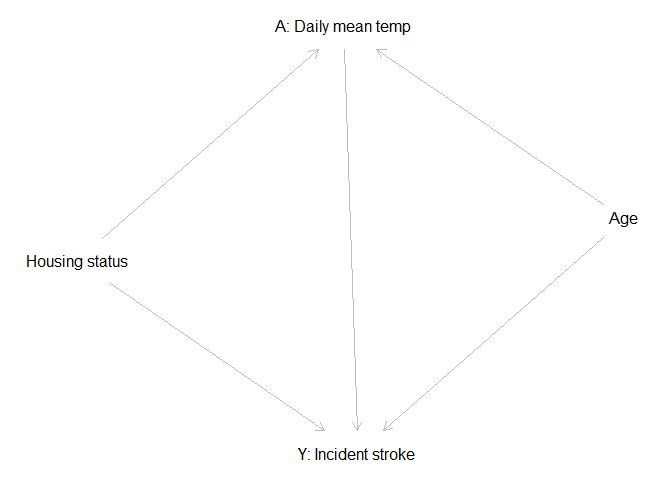
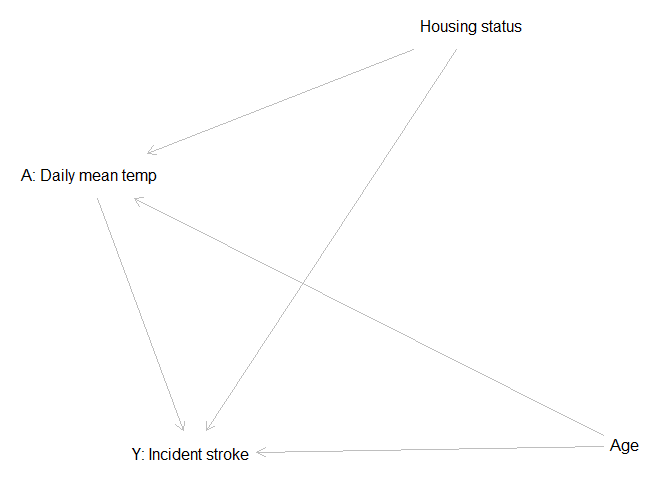
update formatting

diff --git a/quarto-markdowns/dagitty_in_R.md b/quarto-markdowns/dagitty_in_R.md
@@ -56,8 +56,9 @@ isolate the effects of ambient temperature on incident stroke.
 Therefore, in this example we will set the variables as follows (this is
 a selected list):
 
-A (Exposure): Daily mean temperature Y (Outcome) : Incident stroke C
-(Covariates): Age, housing status
+- A (Exposure): Daily mean temperature
+- Y (Outcome) : Incident stroke
+- C (Covariates): Age, housing status
 
 ``` r
 # Daily mean temp -> Incident stroke as main exposure-outcome of interest